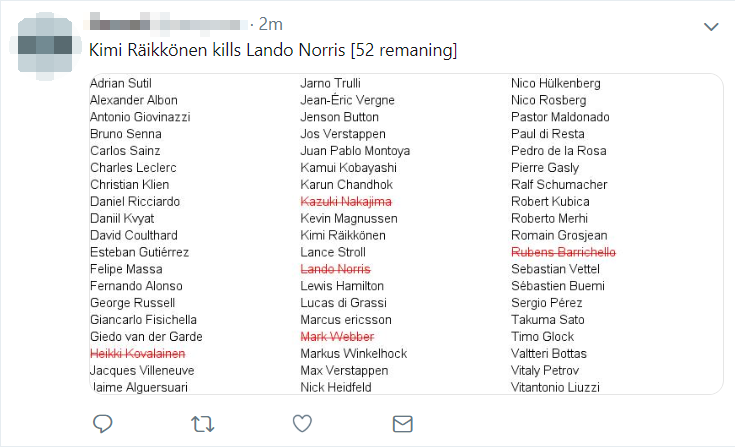
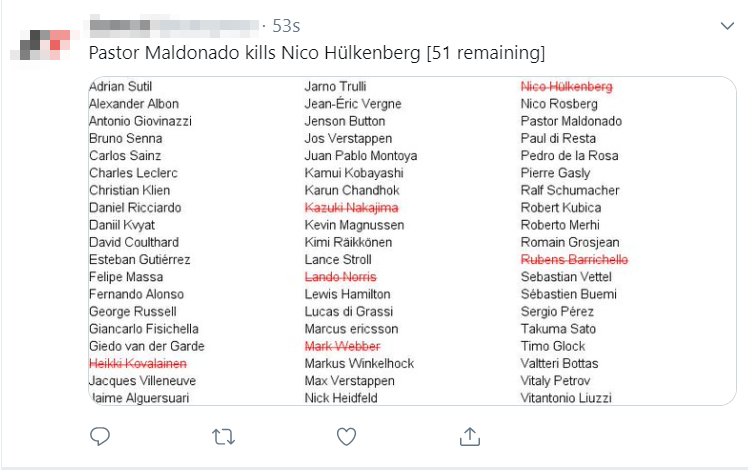
Fix typo in tweet text

diff --git a/src/test/java/com/saespmar/warbot/twitter/Demo.java b/src/test/java/com/saespmar/warbot/twitter/Demo.java
@@ -55,7 +55,7 @@ public class Demo {
         File image = battlefield.drawTable();
         
         // Send tweet
-        String text = battle[0].getName() + " kills " + battle[1].getName() + " [" + battlefield.getAlive() + " remaning]";
+        String text = battle[0].getName() + " kills " + battle[1].getName() + " [" + battlefield.getAlive() + " remaining]";
         if (battlefield.getAlive() < 2) text += ". The game has ended";
         StatusUpdate status = new StatusUpdate(text);
         status.setMedia(image);
